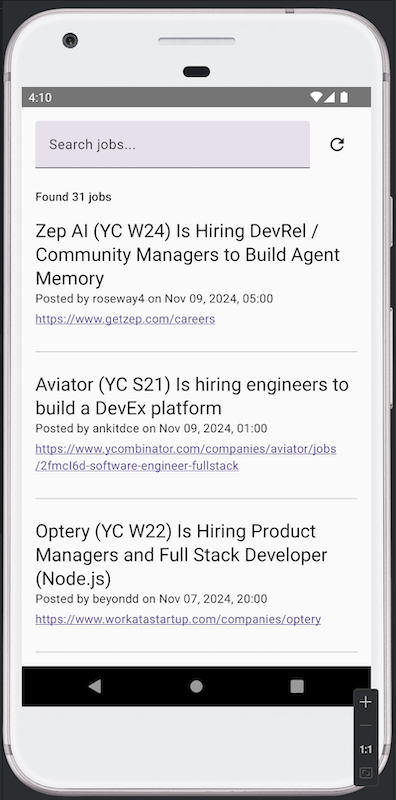
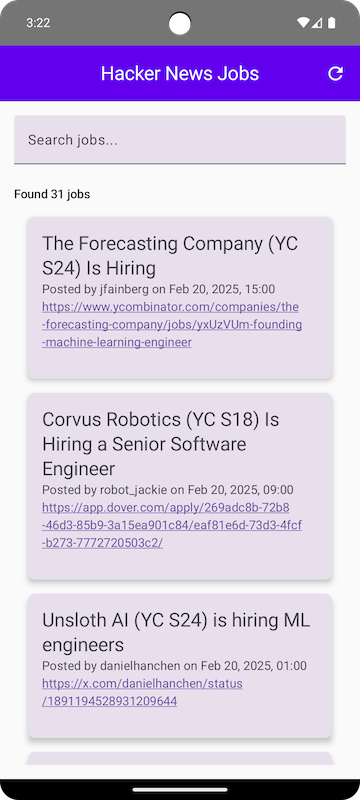
Add App Toolbar and Improve UI Colors
- Added a CenterAlignedTopAppBar to the JobApp composable.
- Moved the fetch button to the toolbar.
- Set a background color for the toolbar.
- Updated the toolbar title and fetch button colors for better visual appeal.

diff --git a/app/src/main/java/com/bh/hackernewsjobsandroid/ui/JobApp.kt b/app/src/main/java/com/bh/hackernewsjobsandroid/ui/JobApp.kt
@@ -8,17 +8,20 @@ import androidx.compose.foundation.layout.fillMaxSize
 import androidx.compose.foundation.layout.fillMaxWidth
 import androidx.compose.foundation.layout.height
 import androidx.compose.foundation.layout.padding
-import androidx.compose.foundation.layout.width
 import androidx.compose.foundation.lazy.LazyColumn
 import androidx.compose.foundation.lazy.items
 import androidx.compose.material.icons.Icons
 import androidx.compose.material.icons.filled.Refresh
+import androidx.compose.material3.CenterAlignedTopAppBar
+import androidx.compose.material3.ExperimentalMaterial3Api
 import androidx.compose.material3.Icon
 import androidx.compose.material3.IconButton
+import androidx.compose.material3.IconButtonDefaults
 import androidx.compose.material3.LinearProgressIndicator
 import androidx.compose.material3.MaterialTheme
 import androidx.compose.material3.Text
 import androidx.compose.material3.TextField
+import androidx.compose.material3.TopAppBarDefaults
 import androidx.compose.runtime.Composable
 import androidx.compose.runtime.collectAsState
 import androidx.compose.runtime.getValue
@@ -27,6 +30,7 @@ import androidx.compose.runtime.remember
 import androidx.compose.runtime.setValue
 import androidx.compose.ui.Alignment
 import androidx.compose.ui.Modifier
+import androidx.compose.ui.graphics.Color
 import androidx.compose.ui.tooling.preview.Preview
 import androidx.compose.ui.unit.dp
 import com.bh.hackernewsjobsandroid.data.local.Job
@@ -37,6 +41,7 @@ import com.bh.hackernewsjobsandroid.data.repository.JobRepository
 import com.bh.hackernewsjobsandroid.viewmodel.JobViewModel
 import retrofit2.Response
 
+@OptIn(ExperimentalMaterial3Api::class)
 @Composable
 fun JobApp(viewModel: JobViewModel) {
     var searchKeyword by remember { mutableStateOf("") }
@@ -44,50 +49,62 @@ fun JobApp(viewModel: JobViewModel) {
     val isFetching by viewModel.isFetching.collectAsState()
 
     Column(
-        modifier = Modifier
-            .fillMaxSize()
-            .padding(16.dp)
+        modifier = Modifier.fillMaxSize()
     ) {
-        Row(
-            modifier = Modifier.fillMaxWidth(),
-            horizontalArrangement = Arrangement.SpaceBetween,
-            verticalAlignment = Alignment.CenterVertically
-        ) {
-            TextField(value = searchKeyword, onValueChange = { newKeyword ->
-                searchKeyword = newKeyword
-                viewModel.searchJobs(newKeyword) // 实时搜索，关键字为空时显示所有 Job
-            }, label = { Text("Search jobs...") }, modifier = Modifier.weight(1f)
+        CenterAlignedTopAppBar(
+            title = { Text("Hacker News Jobs", color = Color.White) },
+            actions = {
+                IconButton(
+                    onClick = { viewModel.fetchAndStoreJobs() },
+                    colors = IconButtonDefaults.iconButtonColors(contentColor = Color.White)
+                ) {
+                    Icon(
+                        imageVector = Icons.Default.Refresh, contentDescription = "Fetch Jobs"
+                    )
+                }
+            },
+            colors = TopAppBarDefaults.centerAlignedTopAppBarColors(
+                containerColor = Color(0xFF6200EE) // Set your desired background color here
             )
-
-            Spacer(modifier = Modifier.width(8.dp))
-
-            // Fetch Icon Button
-            IconButton(onClick = { viewModel.fetchAndStoreJobs() }) {
-                Icon(
-                    imageVector = Icons.Default.Refresh, contentDescription = "Fetch Jobs"
-                )
-            }
-        }
-
-        Spacer(modifier = Modifier.height(16.dp))
-
-        if (isFetching) {
-            LinearProgressIndicator(modifier = Modifier.fillMaxWidth())
-        }
-
-        Spacer(modifier = Modifier.height(8.dp))
-
-        Text(
-            text = "Found ${jobsList.size} jobs",
-            style = MaterialTheme.typography.titleSmall,
-            color = MaterialTheme.colorScheme.onSurface
         )
 
-        Spacer(modifier = Modifier.height(8.dp))
+        Column(
+            modifier = Modifier
+                .fillMaxSize()
+                .padding(16.dp)
+        ) {
+            Row(
+                modifier = Modifier.fillMaxWidth(),
+                horizontalArrangement = Arrangement.SpaceBetween,
+                verticalAlignment = Alignment.CenterVertically
+            ) {
+                TextField(value = searchKeyword, onValueChange = { newKeyword ->
+                    searchKeyword = newKeyword
+                    viewModel.searchJobs(newKeyword) // 实时搜索，关键字为空时显示所有 Job
+                }, label = { Text("Search jobs...") }, modifier = Modifier.weight(1f)
+                )
+            }
 
-        LazyColumn(modifier = Modifier.fillMaxSize()) {
-            items(jobsList) { job ->
-                JobItemView(job)
+            Spacer(modifier = Modifier.height(16.dp))
+
+            if (isFetching) {
+                LinearProgressIndicator(modifier = Modifier.fillMaxWidth())
+            }
+
+            Spacer(modifier = Modifier.height(8.dp))
+
+            Text(
+                text = "Found ${jobsList.size} jobs",
+                style = MaterialTheme.typography.titleSmall,
+                color = MaterialTheme.colorScheme.onSurface
+            )
+
+            Spacer(modifier = Modifier.height(8.dp))
+
+            LazyColumn(modifier = Modifier.fillMaxSize()) {
+                items(jobsList) { job ->
+                    JobItemView(job)
+                }
             }
         }
     }
